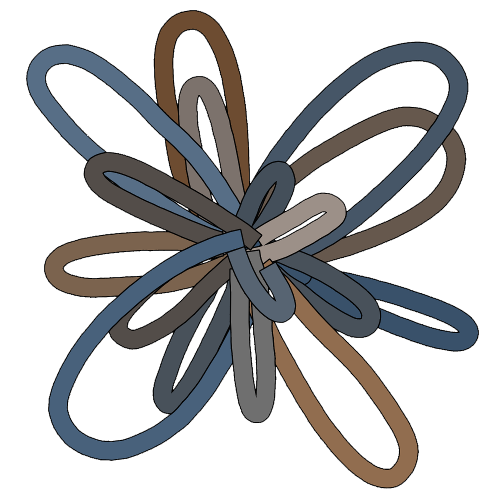
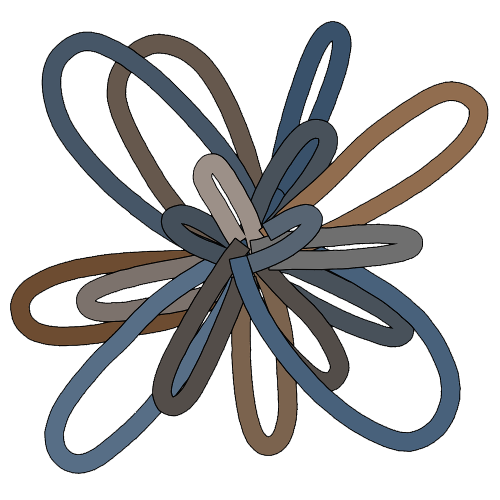
Allow for gesture-based rotation

diff --git a/ui/mygraphicsview.cpp b/ui/mygraphicsview.cpp
@@ -135,10 +135,7 @@ void MyGraphicsView::keyPressEvent(QKeyEvent * event)
             event->key() == Qt::Key_Plus)
     {
         if (shiftPressed)
-        {
-            rotate(1.0);
-            m_rotation += 1.0;
-        }
+            changeRotation(1.0);
         else
             angle = 120;
     }
@@ -150,10 +147,7 @@ void MyGraphicsView::keyPressEvent(QKeyEvent * event)
              event->key() == Qt::Key_Underscore)
     {
         if (shiftPressed)
-        {
-            rotate(-1.0);
-            m_rotation -= 1.0;
-        }
+            changeRotation(-1.0);
         else
             angle = -120;
     }
@@ -244,4 +238,22 @@ void MyGraphicsView::getFourViewportCornersInSceneCoordinates(QPointF * c1, QPoi
     *c2 = mapToScene(QPoint(viewport()->width(), 0));
     *c3 = mapToScene(QPoint(viewport()->width(), viewport()->height()));
     *c4 = mapToScene(QPoint(0, viewport()->height()));
+}
+
+void MyGraphicsView::setRotation(double newRotation)
+{
+    undoRotation();
+    changeRotation(newRotation);
+}
+
+void MyGraphicsView::changeRotation(double rotationChange)
+{
+    rotate(rotationChange);
+    m_rotation += rotationChange;
+}
+
+void MyGraphicsView::undoRotation()
+{
+    rotate(-g_graphicsView->m_rotation);
+    m_rotation = 0.0;
 }

diff --git a/ui/mainwindow.cpp b/ui/mainwindow.cpp
@@ -758,9 +758,7 @@ void MainWindow::resetScene()
     connect(m_scene, SIGNAL(selectionChanged()), this, SLOT(selectionChanged()));
     selectionChanged();
 
-    //Undo the graphics view rotation
-    g_graphicsView->rotate(-g_graphicsView->m_rotation);
-    g_graphicsView->m_rotation = 0.0;
+    g_graphicsView->undoRotation();
 }
 
 
@@ -1194,8 +1192,8 @@ void MainWindow::saveImageEntireScene()
         g_settings->positionTextNodeCentre = true;
 
         //Temporarily undo any rotation so labels appear upright.
-        double rotationBefore = g_graphicsView->m_rotation;
-        g_graphicsView->m_rotation = 0.0;
+        double rotationBefore = g_graphicsView->getRotation();
+        g_graphicsView->undoRotation();
 
         m_imageFilter = selectedFilter;
 
@@ -1255,7 +1253,7 @@ void MainWindow::saveImageEntireScene()
         }
 
         g_settings->positionTextNodeCentre = positionTextNodeCentreSettingBefore;
-        g_graphicsView->m_rotation = rotationBefore;
+        g_graphicsView->setRotation(rotationBefore);
     }
 }
 

diff --git a/ui/mygraphicsview.h b/ui/mygraphicsview.h
@@ -30,11 +30,20 @@ class MyGraphicsView : public QGraphicsView
 {
     Q_OBJECT
 public:
+    // CREATORS
     explicit MyGraphicsView(QObject *parent = 0);
+
+    //ACCESSORS
+    double getRotation() const {return m_rotation;}
+
+    //MODIFERS
+    void setRotation(double newRotation);
+    void changeRotation(double rotationChange);
+    void undoRotation();
+
 
     GraphicsViewZoom * m_zoom;
     QPoint m_previousPos;
-    double m_rotation;
 
     void setAntialiasing(bool antialiasingOn);
     bool isPointVisible(QPointF p);
@@ -48,6 +57,8 @@ protected:
     void mouseDoubleClickEvent(QMouseEvent * event);
 
 private:
+    double m_rotation;
+
     double distance(double x1, double y1, double x2, double y2);
     double angleBetweenTwoLines(QPointF line1Start, QPointF line1End, QPointF line2Start, QPointF line2End);
     void getFourViewportCornersInSceneCoordinates(QPointF * c1, QPointF * c2, QPointF * c3, QPointF * c4);

diff --git a/ui/graphicsviewzoom.h b/ui/graphicsviewzoom.h
@@ -56,17 +56,21 @@
  * (see QWheelEvent::angleDelta).
  * The default zoom factor base is 1.0015.
  */
-class GraphicsViewZoom : public QObject {
+
+class MyGraphicsView;
+
+class GraphicsViewZoom : public QObject
+{
     Q_OBJECT
 public:
-    GraphicsViewZoom(QGraphicsView* view);
+    GraphicsViewZoom(MyGraphicsView * view);
     void gentleZoom(double factor, ZoomSource zoomSource);
     void setModifiers(Qt::KeyboardModifiers modifiers);
     void setZoomFactorBase(double value);
     double m_zoomFactorBase;
 
 private:
-    QGraphicsView * m_view;
+    MyGraphicsView * m_view;
     Qt::KeyboardModifiers m_modifiers;
     QPointF targetScenePos, targetViewportPos;
     bool eventFilter(QObject * object, QEvent * event);

diff --git a/ui/graphicsviewzoom.cpp b/ui/graphicsviewzoom.cpp
@@ -22,8 +22,9 @@
 #include <QScrollBar>
 #include <qmath.h>
 #include "../program/settings.h"
+#include "mygraphicsview.h"
 
-GraphicsViewZoom::GraphicsViewZoom(QGraphicsView* view) :
+GraphicsViewZoom::GraphicsViewZoom(MyGraphicsView * view) :
     QObject(view), m_view(view)
 {
     g_absoluteZoom = 1.0;
@@ -104,6 +105,11 @@ bool GraphicsViewZoom::eventFilter(QObject *object, QEvent *event)
             double factor = 1.0 + gestureEvent->value();
             gentleZoom(factor, GESTURE);
             return true;
+        }
+        else if (gestureEvent->gestureType() == Qt::RotateNativeGesture)
+        {
+            double angle = gestureEvent->value();
+            m_view->changeRotation(angle);
         }
     }
 

diff --git a/graph/graphicsitemnode.cpp b/graph/graphicsitemnode.cpp
@@ -239,7 +239,7 @@ void GraphicsItemNode::drawTextPathAtLocation(QPainter * painter, QPainterPath t
     QPointF offset(0.0, textHeight / 2.0);
 
     painter->translate(centre);
-    painter->rotate(-g_graphicsView->m_rotation);
+    painter->rotate(-g_graphicsView->getRotation());
     painter->translate(offset);
 
     if (g_settings->textOutline)
@@ -254,7 +254,7 @@ void GraphicsItemNode::drawTextPathAtLocation(QPainter * painter, QPainterPath t
 
     painter->fillPath(textPath, QBrush(g_settings->textColour));
     painter->translate(-offset);
-    painter->rotate(g_graphicsView->m_rotation);
+    painter->rotate(g_graphicsView->getRotation());
     painter->translate(-centre);
 }
 
